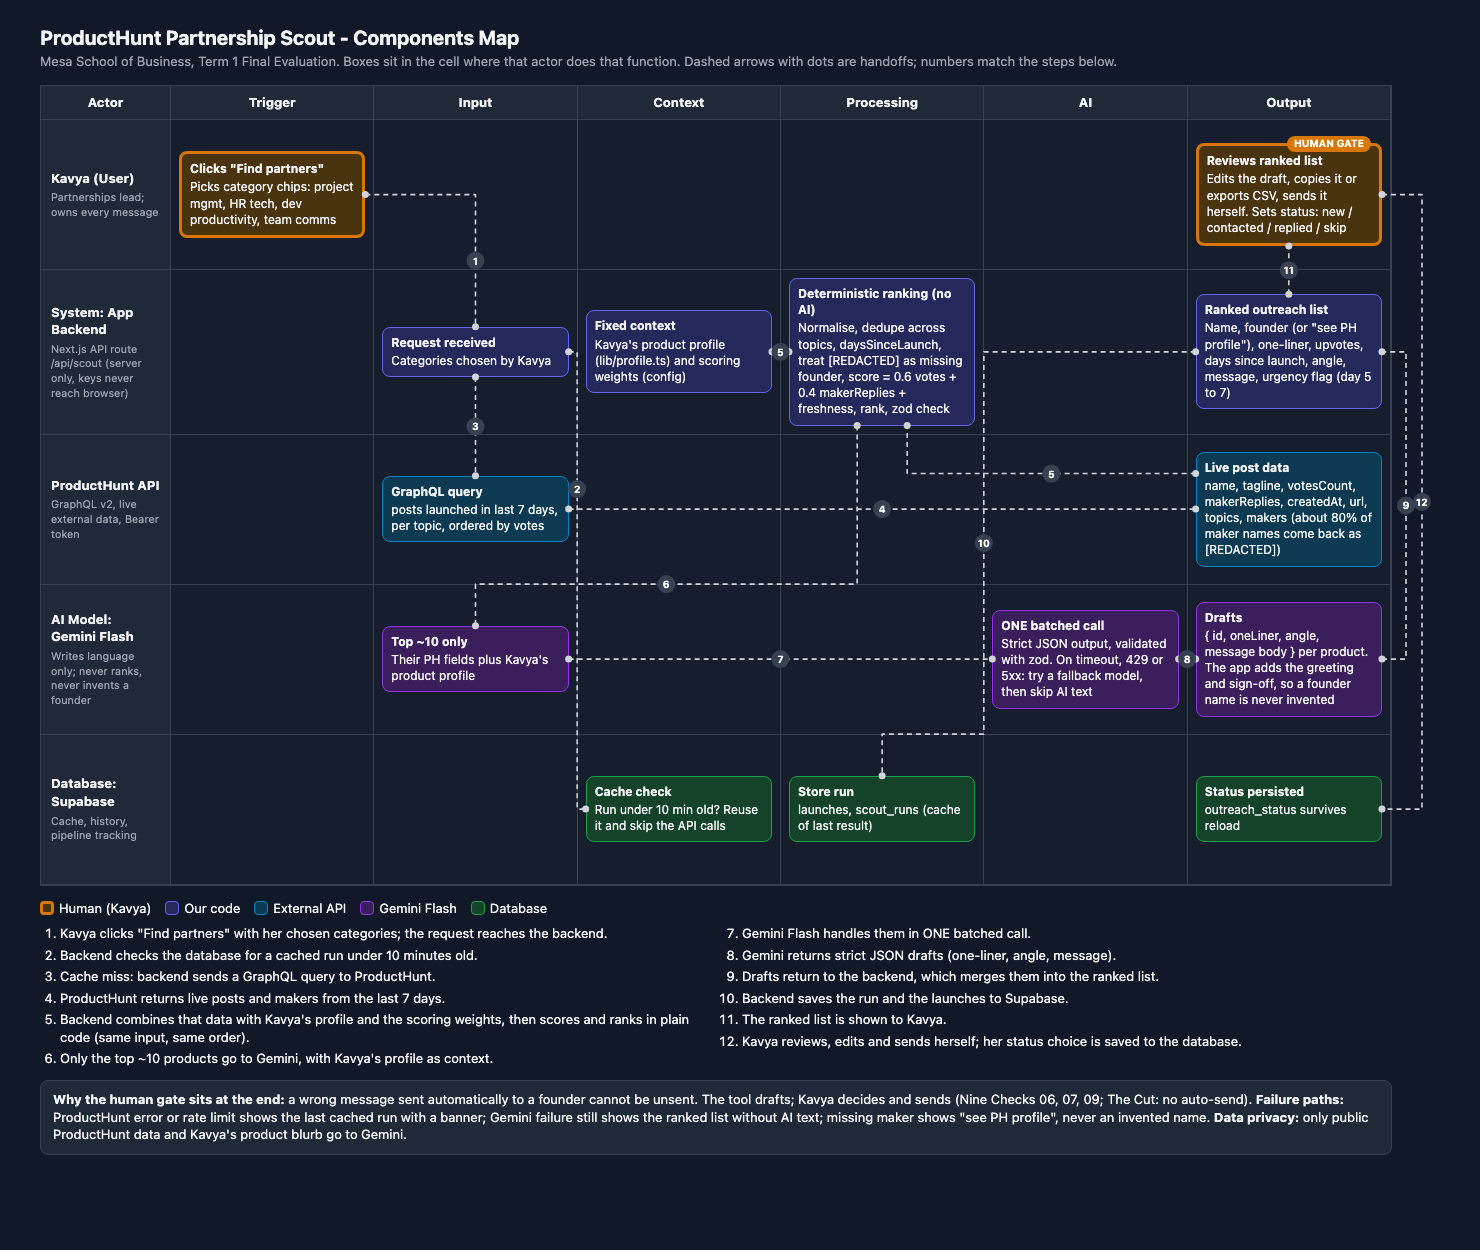
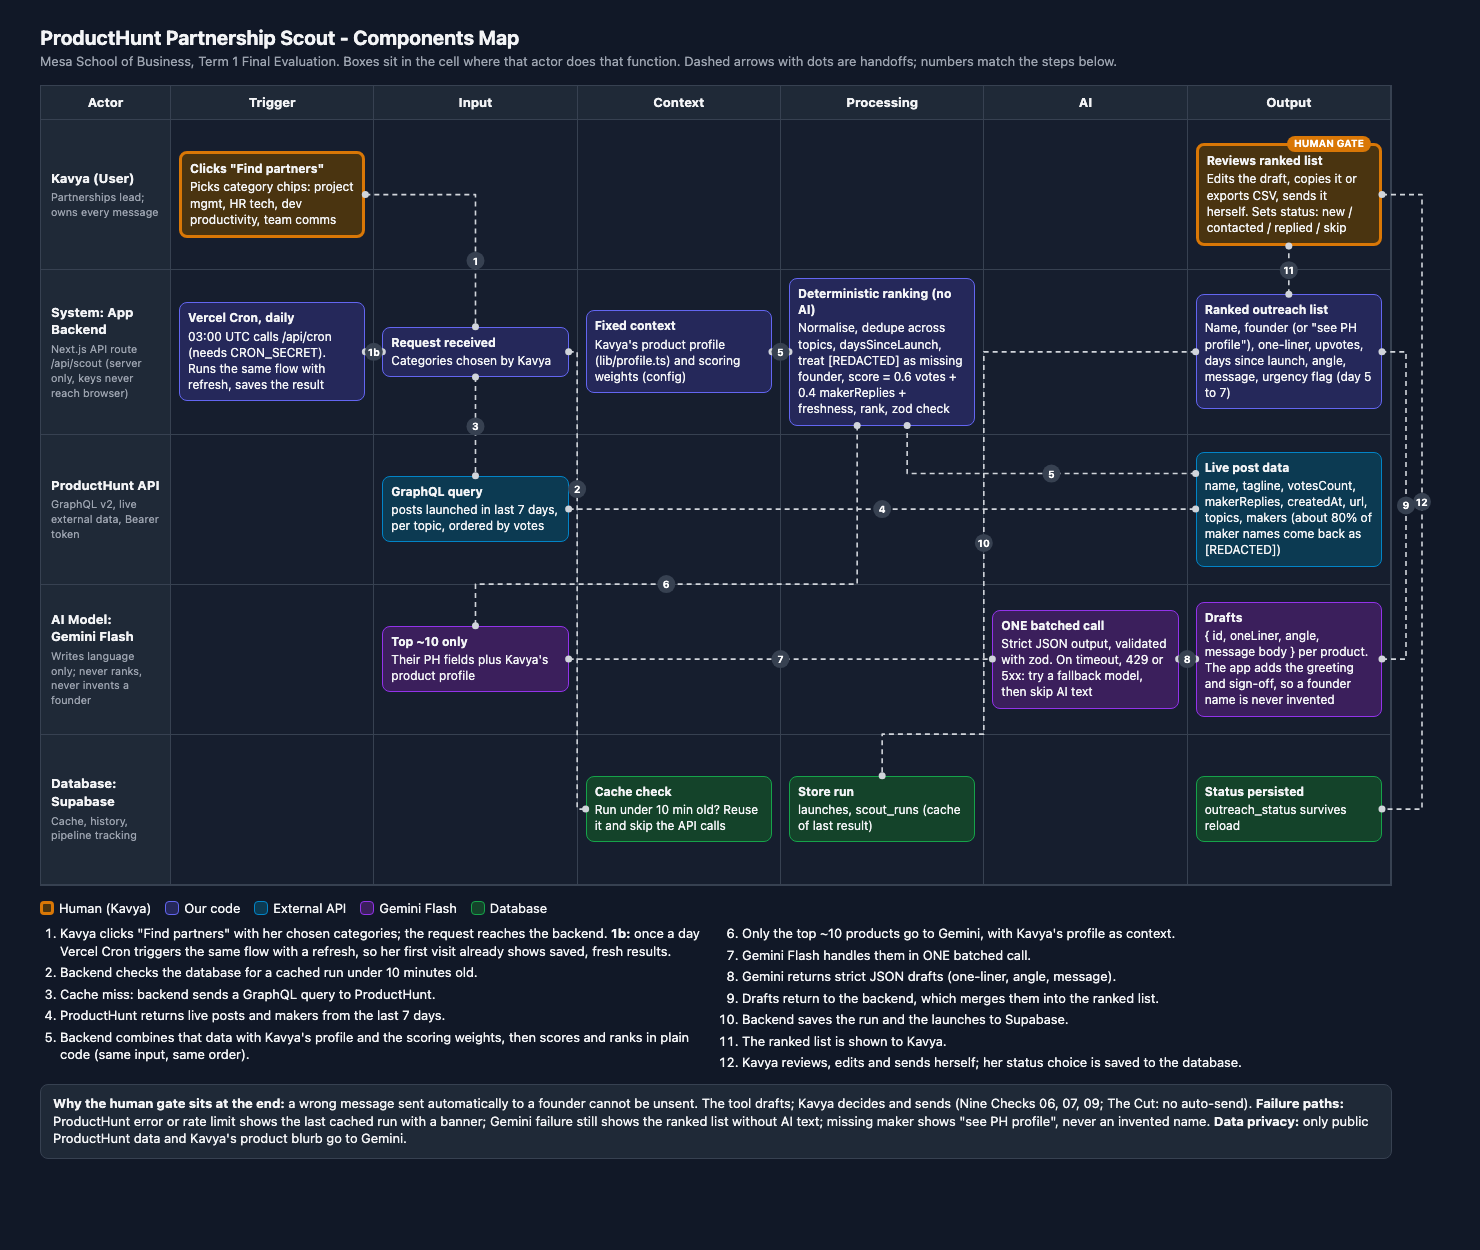
Add daily Vercel Cron refresh and saved-results-on-load

Changed region(s): [[0.0311, 0.7176, 0.9324, 0.936], [0.0932, 0.2184, 0.2486, 0.3432]]

diff --git a/docs/components-map.html b/docs/components-map.html
@@ -72,7 +72,7 @@
 
     <!-- Row 2: Backend -->
     <div class="a">System: App Backend<small>Next.js API route /api/scout (server only, keys never reach browser)</small></div>
-    <div class="c"></div>
+    <div class="c"><div class="box sys" id="C0"><b>Vercel Cron, daily</b>03:00 UTC calls /api/cron (needs CRON_SECRET). Runs the same flow with refresh, saves the result</div></div>
     <div class="c"><div class="box sys" id="B1"><b>Request received</b>Categories chosen by Kavya</div></div>
     <div class="c"><div class="box sys" id="B2"><b>Fixed context</b>Kavya's product profile (lib/profile.ts) and scoring weights (config)</div></div>
     <div class="c"><div class="box sys" id="B3"><b>Deterministic ranking (no AI)</b>Normalise, dedupe across topics, daysSinceLaunch, treat [REDACTED] as missing founder, score = 0.6 votes + 0.4 makerReplies + freshness, rank, zod check</div></div>
@@ -114,7 +114,7 @@
   </div>
 
   <ol class="steps">
-    <li>Kavya clicks "Find partners" with her chosen categories; the request reaches the backend.</li>
+    <li>Kavya clicks "Find partners" with her chosen categories; the request reaches the backend. <strong>1b:</strong> once a day Vercel Cron triggers the same flow with a refresh, so her first visit already shows saved, fresh results.</li>
     <li>Backend checks the database for a cached run under 10 minutes old.</li>
     <li>Cache miss: backend sends a GraphQL query to ProductHunt.</li>
     <li>ProductHunt returns live posts and makers from the last 7 days.</li>
@@ -149,7 +149,7 @@
     const gridR = document.getElementById("grid").getBoundingClientRect().right - w.left;
     const stroke = getComputedStyle(document.documentElement).getPropertyValue("--arrow").trim();
     const mid = (a, b) => (a + b) / 2;
-    const B = {}; for (const id of ["U1","U2","B1","B2","B3","B4","P1","P2","G1","G2","G3","D1","D2","D3"]) B[id] = R(id);
+    const B = {}; for (const id of ["C0","U1","U2","B1","B2","B3","B4","P1","P2","G1","G2","G3","D1","D2","D3"]) B[id] = R(id);
 
     const gx23 = mid(B.B1.r, B.B2.l);          // gap between columns 2 and 3
     const gx56 = mid(B.B3.r, B.G2.l);          // gap between columns 5 and 6
@@ -158,6 +158,7 @@
 
     // [step number, list of points]
     const ARROWS = [
+      ["1b", [[B.C0.r, B.C0.cy], [B.B1.l, B.B1.cy]]],
       [1,  [[B.U1.r, B.U1.cy], [B.B1.cx, B.U1.cy], [B.B1.cx, B.B1.t]]],
       [2,  [[B.B1.r, B.B1.cy], [gx23, B.B1.cy], [gx23, B.D1.cy], [B.D1.l, B.D1.cy]], 0.3],
       [3,  [[B.B1.cx, B.B1.b], [B.P1.cx, B.P1.t]]],

diff --git a/components/Scout.tsx b/components/Scout.tsx
@@ -28,14 +28,35 @@ export default function Scout() {
     return () => clearInterval(timer);
   }, [phase]);
 
-  // Opening the page with ?run=1 starts the search straight away (handy for demos and bookmarks).
+  // On first load: ?run=1 starts a live search (handy for demos). Otherwise show the latest saved results,
+  // which the daily cron run keeps fresh, so Kavya sees data straight away without waiting.
   useEffect(() => {
-    if (new URLSearchParams(window.location.search).get("run") === "1") void run(false);
+    if (new URLSearchParams(window.location.search).get("run") === "1") {
+      void run(false);
+      return;
+    }
+    const controller = new AbortController();
+    fetch(`/api/scout?categories=${ALL_CATEGORY_IDS.join(",")}&saved=1`, { signal: controller.signal })
+      .then((res) => (res.ok ? res.json() : null))
+      .then((json) => json && showResponse(json as ScoutResponse))
+      .catch(() => {}); // no saved results yet (or offline): stay on the idle screen
+    return () => controller.abort();
     // eslint-disable-next-line react-hooks/exhaustive-deps
   }, []);
 
   function toggle(id: CategoryId) {
     setSelected((cur) => (cur.includes(id) ? cur.filter((c) => c !== id) : [...cur, id]));
+  }
+
+  // Show a response: store it and seed the editable message boxes (keeping any edits Kavya already made).
+  function showResponse(resp: ScoutResponse) {
+    setData(resp);
+    setMessages((cur) => {
+      const next = { ...cur };
+      for (const r of resp.results) if (r.ai && next[r.id] === undefined) next[r.id] = r.ai.message;
+      return next;
+    });
+    setPhase("done");
   }
 
   async function run(refresh: boolean) {
@@ -52,15 +73,7 @@ export default function Scout() {
       const res = await fetch(`/api/scout?${qs}`, { signal: controller.signal });
       const json = await res.json();
       if (!res.ok) throw new Error(json.error ?? `Request failed (HTTP ${res.status})`);
-      const resp = json as ScoutResponse;
-      setData(resp);
-      // Seed the editable message box from each AI draft (keep edits Kavya already made).
-      setMessages((cur) => {
-        const next = { ...cur };
-        for (const r of resp.results) if (r.ai && next[r.id] === undefined) next[r.id] = r.ai.message;
-        return next;
-      });
-      setPhase("done");
+      showResponse(json as ScoutResponse);
     } catch (e) {
       if (controller.signal.aborted) return;
       setError(e instanceof Error ? e.message : "Something went wrong");

diff --git a/app/api/scout/route.ts b/app/api/scout/route.ts
@@ -1,6 +1,7 @@
 // GET /api/scout?categories=hr-tech,project-management   (no param = all four categories)
 // Order follows the Components Map: cache check -> ProductHunt -> rank (no AI) -> Gemini (top 10) -> save -> return.
 //   &refresh=1  skip the cache and fetch live       &ai=0  skip Gemini (fast, uses no quota, never cached)
+//   &saved=1    return the latest saved run of ANY age without fetching (used on first page load; the daily cron keeps it fresh)
 import type { NextRequest } from "next/server";
 import { ALL_CATEGORY_IDS, CATEGORIES, MAX_RESULTS, type CategoryId } from "@/lib/config";
 import { cacheKey, dbConfigured, getLatestRun, getStatuses, isFresh, saveRun, type ScoutRow } from "@/lib/db";
@@ -48,6 +49,12 @@ export async function GET(request: NextRequest) {
 
   // 1. Cache check: a saved run under 10 minutes old for the same categories is reused.
   const latest = await getLatestRun(key);
+
+  // Saved-results mode: show the most recent run (e.g. this morning's cron run) without touching ProductHunt or Gemini.
+  if (params.get("saved") === "1") {
+    if (!latest) return Response.json({ error: "No saved results yet" }, { status: 404 });
+    return respond(latest.results, "cache", "ok", latest.createdAt);
+  }
   if (latest && wantAi && params.get("refresh") !== "1" && isFresh(latest.createdAt, now)) {
     return respond(latest.results, "cache", "ok", latest.createdAt);
   }

diff --git a/app/api/cron/route.ts b/app/api/cron/route.ts
@@ -1,0 +1,31 @@
+// GET /api/cron   Called once a day by Vercel Cron (schedule in vercel.json).
+// It runs the SAME scout as the "Find partners" button, but with refresh=1, so fresh live ProductHunt data and
+// Gemini drafts are saved to Supabase. Kavya's first visit then shows them straight away.
+import { NextRequest } from "next/server";
+import { isAuthorizedCron } from "@/lib/cron";
+import { GET as runScout } from "../scout/route";
+
+export const maxDuration = 90;
+
+export async function GET(request: NextRequest) {
+  if (!isAuthorizedCron(request.headers.get("authorization"), process.env.CRON_SECRET)) {
+    return Response.json({ error: "Unauthorized" }, { status: 401 });
+  }
+
+  // Reuse the scout handler instead of copying its logic: one code path to test and explain.
+  const inner = new NextRequest(new URL("/api/scout?refresh=1", request.url));
+  const res = await runScout(inner);
+  const body = await res.json();
+
+  if (!res.ok) {
+    return Response.json({ ok: false, error: body.error ?? "Scout failed", warnings: body.warnings ?? [] }, { status: 502 });
+  }
+  return Response.json({
+    ok: true,
+    ranAt: new Date().toISOString(),
+    count: body.count,
+    source: body.source,
+    aiStatus: body.aiStatus,
+    warnings: body.warnings,
+  });
+}

diff --git a/lib/cron.test.ts b/lib/cron.test.ts
@@ -1,0 +1,16 @@
+import { describe, expect, it } from "vitest";
+import { isAuthorizedCron } from "./cron";
+
+describe("isAuthorizedCron", () => {
+  it("accepts the exact bearer secret", () => expect(isAuthorizedCron("Bearer s3cret", "s3cret")).toBe(true));
+  it("rejects a wrong secret", () => expect(isAuthorizedCron("Bearer nope", "s3cret")).toBe(false));
+  it("rejects a missing header", () => expect(isAuthorizedCron(null, "s3cret")).toBe(false));
+  it("rejects everyone when the secret is not configured", () => {
+    expect(isAuthorizedCron("Bearer ", "")).toBe(false);
+    expect(isAuthorizedCron("Bearer undefined", undefined)).toBe(false);
+  });
+  it("rejects the secret without the Bearer prefix, and different lengths", () => {
+    expect(isAuthorizedCron("s3cret", "s3cret")).toBe(false);
+    expect(isAuthorizedCron("Bearer s3cretX", "s3cret")).toBe(false);
+  });
+});

diff --git a/lib/cron.ts b/lib/cron.ts
@@ -1,0 +1,12 @@
+// Protects /api/cron. Vercel Cron sends "Authorization: Bearer <CRON_SECRET>" automatically when the
+// CRON_SECRET environment variable is set. Without this check, anyone who guessed the URL could trigger runs
+// and burn the Gemini quota. If the secret is not configured, NOBODY is authorised (safe by default).
+import { timingSafeEqual } from "node:crypto";
+
+export function isAuthorizedCron(authHeader: string | null, secret: string | undefined): boolean {
+  if (!secret || !authHeader) return false;
+  const expected = Buffer.from(`Bearer ${secret}`);
+  const got = Buffer.from(authHeader);
+  // timingSafeEqual needs equal lengths; comparing in constant time stops attackers learning the secret by timing.
+  return got.length === expected.length && timingSafeEqual(got, expected);
+}

diff --git a/CLAUDE.md b/CLAUDE.md
@@ -42,6 +42,7 @@ Medium is judged on: scoping correctly, reliable outputs, edge cases, demonstrat
 | D5 | **Stack = free + taught**: Claude Code, Gemini Flash, Supabase, Vercel, GitHub (+ Resend optional). Only non-taught piece is ProductHunt API (required by problem; free token) | Student constraint | Paid tools; Redis/other DBs | — |
 | D6 | **Supabase stores scouted launches + outreach status + cached results** (NOT in-memory cache) | CORRECTION: Vercel serverless doesn't reliably keep memory between requests, so in-memory caching would silently fail. DB gives cache + history + pipeline tracking (New -> Contacted -> Replied) — real-world useful | In-memory cache | Cache doesn't work; Kavya re-sees same products daily |
 | D7 | **Human stays in the loop**: tool drafts messages; Kavya reviews and sends herself. No auto-outreach | Course pattern (Nine Checks 06/07/09, The Cut): a wrong auto-message to a founder can't be unsent; Kavya owns the relationship | Auto-send via Resend/LinkedIn | Liability, spammy outreach |
+| D9 | **Daily Vercel Cron** (`/api/cron`, 03:00 UTC, secret-protected) + page shows latest saved run on first load. Added 12 Oct 2026 at the student's request (student believes cron/live-data refresh is graded; not found in the booklet, to confirm with instructor) | Keeps data live without a click; first visit is instant | No schedule (on-demand only) | Wrong/missing secret would let strangers burn Gemini quota: route refuses everyone if CRON_SECRET is unset |
 | D8 | **Ranking is deterministic code; Gemini only writes language** | Reliable, explainable, same result each run | AI ranks everything | Unreliable/unexplainable order |
 
 ## 7. Architecture (maps to the "5 parts of every app")
@@ -112,4 +113,4 @@ The Cut: NOT built = auto-sending outreach to founders (checks 06, 09). Built in
 **C6 — UI & extras.** Category chips, table, urgency badge (day 5–7), copy message, CSV export, founder links, loading/empty/error states. DONE WHEN: Kavya can go from click to a copied message in under 1 minute.
 **C7 — Deploy.** Push to GitHub -> import in Vercel -> add env vars in dashboard -> deploy. DONE WHEN: public URL shows live data with no errors.
 **C8 — Deliverables.** Components Map (swimlane), README (Automation Brief + Nine Checks + The Cut + plain-words walkthrough). Demo video dropped by the student on 12 Oct 2026. DONE WHEN: README matches the code and the Q&A covers every decision.
-Status: C1 DONE. C2 DONE (findings in 7b). Components Map v1 built (docs/components-map.html + .png). C3 DONE (lib/config.ts, lib/pipeline.ts, lib/producthunt.ts, app/api/scout/route.ts, 23 unit tests passing, live test OK: 20 ranked results in ~2s). Scoring confirmed by student: 60% votes + 40% makerReplies + 5% freshness. C4 DONE (lib/profile.ts, lib/gemini.ts; 37 unit tests; live test OK: 10 drafts from ONE gemini-3.8-flash call, all greetings/lengths verified; fallback verified when Gemini timed out). C5 DONE (lib/db.ts, supabase/schema.sql, app/api/status/route.ts; 50 unit tests; 10 live tests passed). C6 DONE (components/Scout.tsx, components/ResultRow.tsx, lib/csv.ts, lib/format.ts, lib/status.ts, lib/types.ts; 61 unit tests; production build OK; lint clean; UI exercised live in browser). C7–C8 not started.
+Status: C1 DONE. C2 DONE (findings in 7b). Components Map v1 built (docs/components-map.html + .png). C3 DONE (lib/config.ts, lib/pipeline.ts, lib/producthunt.ts, app/api/scout/route.ts, 23 unit tests passing, live test OK: 20 ranked results in ~2s). Scoring confirmed by student: 60% votes + 40% makerReplies + 5% freshness. C4 DONE (lib/profile.ts, lib/gemini.ts; 37 unit tests; live test OK: 10 drafts from ONE gemini-3.8-flash call, all greetings/lengths verified; fallback verified when Gemini timed out). C5 DONE (lib/db.ts, supabase/schema.sql, app/api/status/route.ts; 50 unit tests; 10 live tests passed). C6 DONE (components/Scout.tsx, components/ResultRow.tsx, lib/csv.ts, lib/format.ts, lib/status.ts, lib/types.ts; 61 unit tests; production build OK; lint clean; UI exercised live in browser). C7 blocked by a Vercel outage on 12 Oct 2026 (build never started: 'Git information retrieval failed'); env vars saved in Vercel; waiting to redeploy. C8 written (README). Cron added (lib/cron.ts, app/api/cron/route.ts, vercel.json; 66 tests).

diff --git a/README.md b/README.md
@@ -57,6 +57,8 @@ Every morning Kavya used to scroll ProductHunt for 30 to 40 minutes to find newl
 ## 4. How it works
 
 ```
+Once a day: Vercel Cron -> /api/cron (secret-protected) -> same flow with refresh, result saved
+Kavya opens the page -> latest saved result shown instantly
 Kavya clicks "Find partners"
   -> /api/scout (server only; keys never reach the browser)
      1. Cache check in Supabase (same categories, under 10 minutes old -> reuse)
@@ -81,6 +83,8 @@ The five parts of an app:
 | Database | Supabase: `scout_runs` (cache), `launches` (history), `outreach_status` (pipeline) |
 | Version control | GitHub, deployed on Vercel |
 
+**Scheduled refresh (Vercel Cron):** `vercel.json` schedules `/api/cron` daily at 03:00 UTC (about 8:30 in India; the free Hobby plan allows one run a day and may drift by up to an hour). The route runs the same scout with a refresh and saves it, so the data stays live without anyone clicking, and the page shows the latest saved result on first load. `/api/cron` refuses any call that does not carry `CRON_SECRET`; if the secret is not set, nobody is allowed.
+
 ## 5. Reliability and edge cases
 
 | Situation | Behaviour |
@@ -93,6 +97,7 @@ The five parts of an app:
 | Gemini slow, overloaded or rate limited | Falls back to a second model; if that fails too, the ranked list still shows, with a notice |
 | Database missing or failing | The app still works, without cache or saved status |
 | Empty results, or no urgent launches | Dedicated empty states |
+| Cron called without the secret | 401, nothing runs |
 | CSV export | Cells starting with `=`, `+`, `-` or `@` are neutralised (CSV injection) |
 
 ## 6. ProductHunt API facts (tested, not assumed)
@@ -123,7 +128,7 @@ npm test                     # 61 unit tests
 npm run ph-check             # prints which ProductHunt fields are real, empty or redacted
 ```
 
-Environment variables (see `.env.example`): `PRODUCTHUNT_TOKEN`, `GEMINI_API_KEY`, `GEMINI_MODEL`, `GEMINI_FALLBACK_MODEL` (optional), `SUPABASE_URL`, `SUPABASE_ANON_KEY`.
+Environment variables (see `.env.example`): `PRODUCTHUNT_TOKEN`, `GEMINI_API_KEY`, `GEMINI_MODEL`, `GEMINI_FALLBACK_MODEL` (optional), `SUPABASE_URL`, `SUPABASE_ANON_KEY`, `CRON_SECRET` (for the daily scheduled run).
 
 Create the database tables by running [supabase/schema.sql](supabase/schema.sql) once in the Supabase SQL editor.
 
